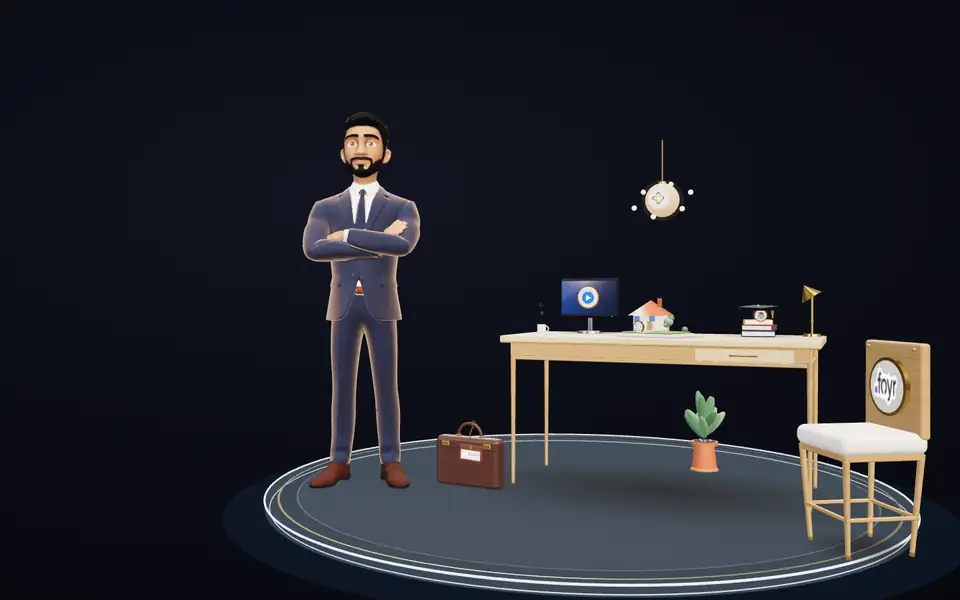
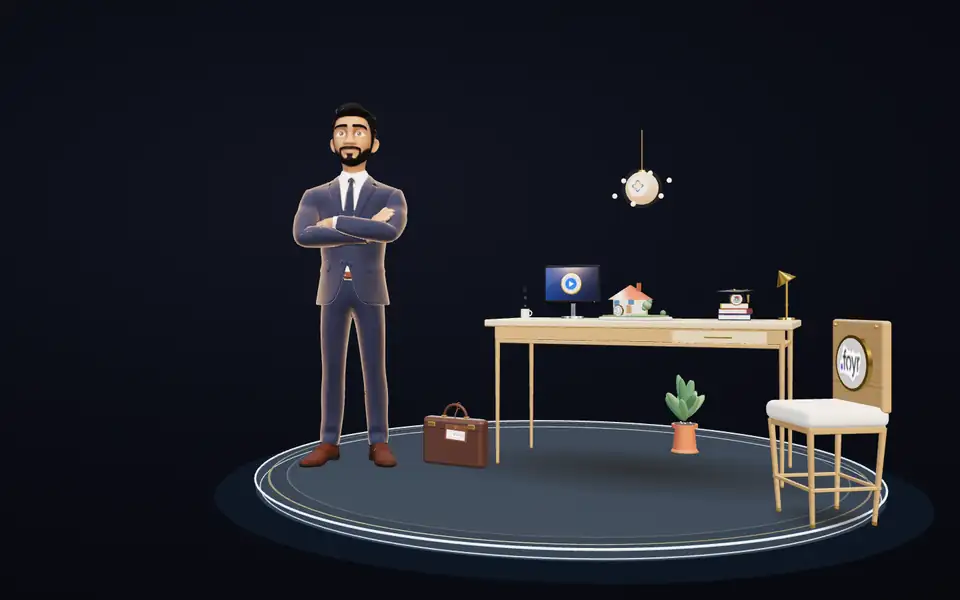
Loader posters per screen shape (5 phone/tablet portrait, 3 landscape), chosen by aspect ratio like the 3D camera, so the reveal has no shift
Claude-Session: https://claude.ai/code/session_01SWnfNPGbFHhiGrXWnwnedS

Changed region(s): [[0.25, 0.18, 0.9688, 1.0], [0.625, 0.27, 0.7188, 0.36]]

diff --git a/web/index.html b/web/index.html
@@ -49,7 +49,7 @@
       html,body{margin:0;background:#0a0c14}
       html[data-theme=light],html[data-theme=light] body{background:#eceff4}
       #boot{position:fixed;inset:0;z-index:9999;overflow:hidden;background:#0a0c14;color:#f4f1ea;font-family:Inter,'Helvetica Neue',system-ui,-apple-system,'Segoe UI',sans-serif;transition:opacity .7s ease}
-      #boot .bp{position:absolute;inset:0;background:url(./loader/poster-dark-phone.webp) center/auto 100% no-repeat;filter:blur(7px) saturate(.9);opacity:.92;transition:filter .7s ease,transform .7s ease}
+      #boot .bp{position:absolute;inset:0;background:url(./loader/poster-dark-p45.webp) center/auto 100% no-repeat;filter:blur(7px) saturate(.9);opacity:.92;transition:filter .7s ease,transform .7s ease}
       #boot .bg{position:absolute;inset:0;background:linear-gradient(to top,#0a0c14 0%,rgba(10,12,20,.8) 14%,rgba(10,12,20,0) 42%)}
       #boot .bt{position:absolute;left:0;right:0;bottom:calc(env(safe-area-inset-bottom,0px) + 9vh);display:flex;flex-direction:column;align-items:center;gap:14px;transition:opacity .4s ease}
       #boot b{font-size:15px;font-weight:600;letter-spacing:-.01em}
@@ -60,10 +60,17 @@
       #boot.is-done{opacity:0;pointer-events:none}
       #boot.is-done .bp{filter:blur(0) saturate(1);transform:scale(.985)}
       #boot.is-done .bt{opacity:0}
-      @media (min-width:1100px){#boot .bp{background-image:url(./loader/poster-dark-desk.webp)}}
       html[data-theme=light] #boot{background:#eceff4;color:#1b1f2a}
-      html[data-theme=light] #boot .bp{background-image:url(./loader/poster-light-phone.webp)}
-      @media (min-width:1100px){html[data-theme=light] #boot .bp{background-image:url(./loader/poster-light-desk.webp)}}
+      html[data-theme=light] #boot .bp{background-image:url(./loader/poster-light-p45.webp)}
+      /* one poster per screen shape: the 3D camera pulls back on narrower screens, so the shape decides the framing */
+      @media (min-aspect-ratio:19/40){#boot .bp{background-image:url(./loader/poster-dark-p50.webp)}html[data-theme=light] #boot .bp{background-image:url(./loader/poster-light-p50.webp)}}
+      @media (min-aspect-ratio:21/40){#boot .bp{background-image:url(./loader/poster-dark-p55.webp)}html[data-theme=light] #boot .bp{background-image:url(./loader/poster-light-p55.webp)}}
+      @media (min-aspect-ratio:23/40){#boot .bp{background-image:url(./loader/poster-dark-p60.webp)}html[data-theme=light] #boot .bp{background-image:url(./loader/poster-light-p60.webp)}}
+      @media (min-aspect-ratio:13/20){#boot .bp{background-image:url(./loader/poster-dark-p70.webp)}html[data-theme=light] #boot .bp{background-image:url(./loader/poster-light-p70.webp)}}
+      @media (min-aspect-ratio:29/40){#boot .bp{background-image:url(./loader/poster-dark-p75.webp)}html[data-theme=light] #boot .bp{background-image:url(./loader/poster-light-p75.webp)}}
+      @media (min-aspect-ratio:21/20){#boot .bp{background-image:url(./loader/poster-dark-d133.webp)}html[data-theme=light] #boot .bp{background-image:url(./loader/poster-light-d133.webp)}}
+      @media (min-aspect-ratio:29/20){#boot .bp{background-image:url(./loader/poster-dark-desk.webp)}html[data-theme=light] #boot .bp{background-image:url(./loader/poster-light-desk.webp)}}
+      @media (min-aspect-ratio:169/100){#boot .bp{background-image:url(./loader/poster-dark-d178.webp)}html[data-theme=light] #boot .bp{background-image:url(./loader/poster-light-d178.webp)}}
       html[data-theme=light] #boot .bg{background:linear-gradient(to top,#eceff4 0%,rgba(236,239,244,.8) 14%,rgba(236,239,244,0) 42%)}
       html[data-theme=light] #boot .bb{background:rgba(27,31,42,.18)}
       @keyframes bootGo{0%{transform:translateX(-110%)}100%{transform:translateX(360%)}}
